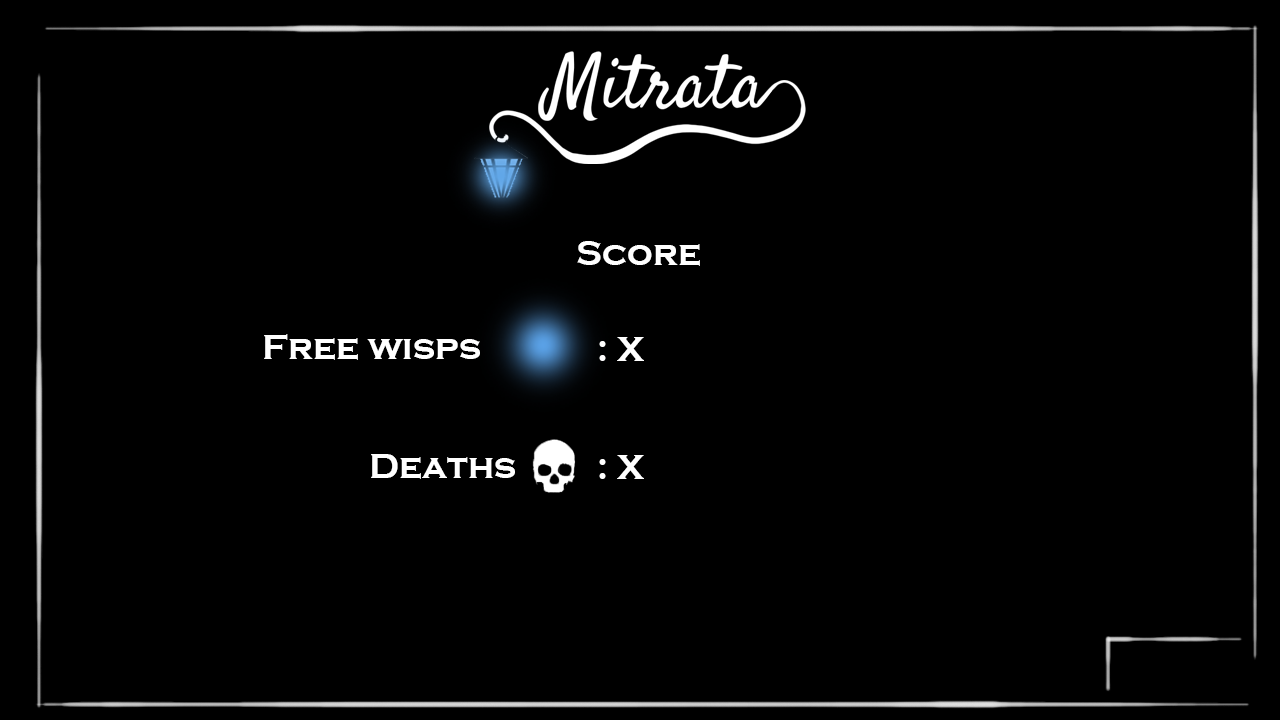
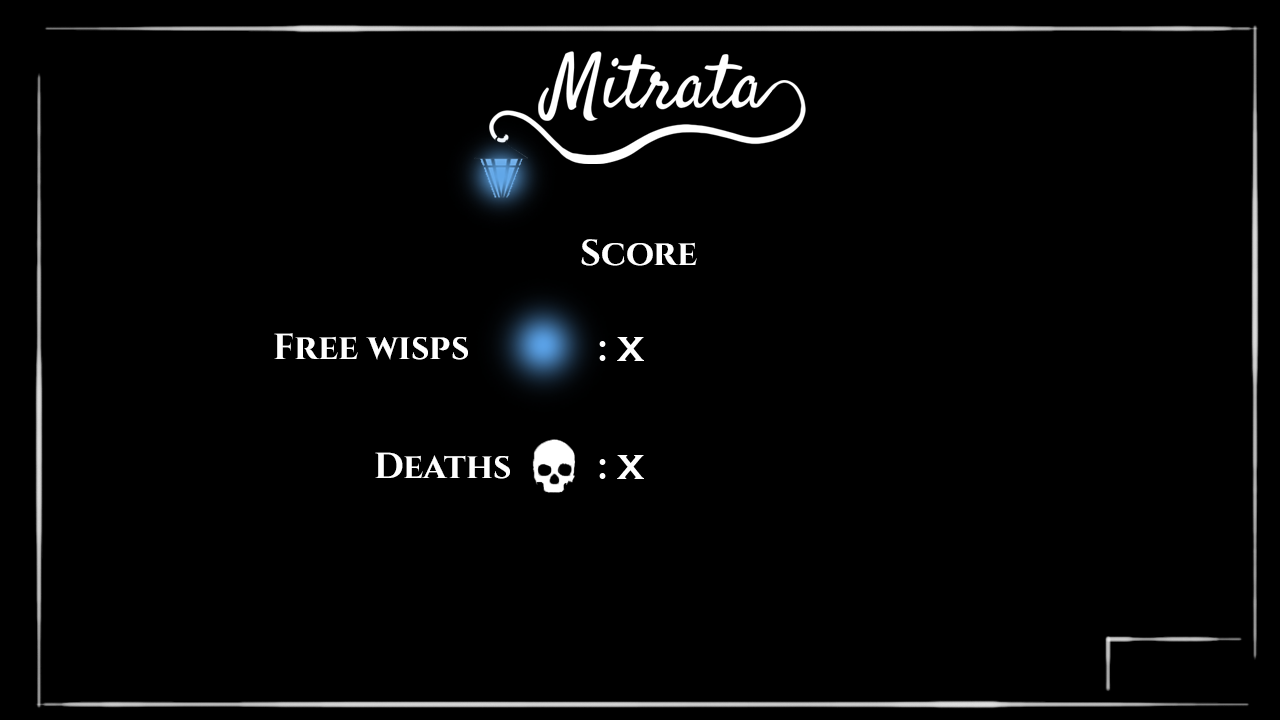
UI refait + anims pelko

Changed region(s): [[0.1875, 0.4583, 0.375, 0.5194], [0.2812, 0.6111, 0.4062, 0.6722], [0.4375, 0.3361, 0.5625, 0.3667]]

diff --git a/src/Boss.js b/src/Boss.js
@@ -48,6 +48,8 @@ class boss extends Phaser.Scene {
         this.load.spritesheet('Lampfx','assets/images/anim/fxlamp.png',{frameWidth: 192, frameHeight: 192});
         this.load.spritesheet('pIdle','assets/images/anim/pIdle.png',{frameWidth: 160, frameHeight: 180});
         this.load.spritesheet('pAtk','assets/images/anim/pAtk.png',{frameWidth: 160, frameHeight: 180});
+        this.load.spritesheet('pApp','assets/images/anim/pApp.png',{frameWidth: 160, frameHeight: 180});
+        this.load.spritesheet('pDis','assets/images/anim/pDis.png',{frameWidth: 160, frameHeight: 180});
 
         this.load.image('Grain1', 'assets/images/anim/Grain/Bruit1.png');
         this.load.image('Grain2', 'assets/images/anim/Grain/Bruit2.png');
@@ -89,6 +91,30 @@ class boss extends Phaser.Scene {
             frames: this.anims.generateFrameNames('pAtk', {
                 start: 0,
                 end: 4,
+            }),
+            frameRate: 7,
+            repeat:0,
+            showOnStart: true,
+            hideOnComplete: true
+        });
+
+        this.anims.create({
+            key: 'pApp',
+            frames: this.anims.generateFrameNames('pApp', {
+                start: 0,
+                end: 8,
+            }),
+            frameRate: 7,
+            repeat:0,
+            showOnStart: true,
+            hideOnComplete: true
+        });
+
+        this.anims.create({
+            key: 'pDis',
+            frames: this.anims.generateFrameNames('pDis', {
+                start: 0,
+                end: 8,
             }),
             frameRate: 7,
             repeat:0,

diff --git a/src/Start.js b/src/Start.js
@@ -24,12 +24,12 @@ class Start extends Phaser.Scene {
             .setScale(1)
             .setAlpha(0.7);
 
-        const buttonOptionSprite = this.add.image(930, 550, 'Options')
+        const buttonOptionSprite = this.add.image(700, 550, 'Options')
             .setOrigin(0, 0)
             .setScale(1)
             .setAlpha(0.7);
 
-        const buttonCreditsSprite = this.add.image(930, 700, 'Credits')
+        const buttonCreditsSprite = this.add.image(890, 700, 'Credits')
             .setOrigin(0, 0)
             .setScale(1)
             .setAlpha(0.7);

diff --git a/src/Player.js b/src/Player.js
@@ -71,7 +71,7 @@ class Player {
     moveLeft(){
         this.player.setVelocityX(-300);
         if (this.player.body.onFloor()) {
-            this.scene.walksfx.play();
+            //this.scene.walksfx.play();
             this.player.play('walk', true)}
         this.player.setFlipX(true);
     }
